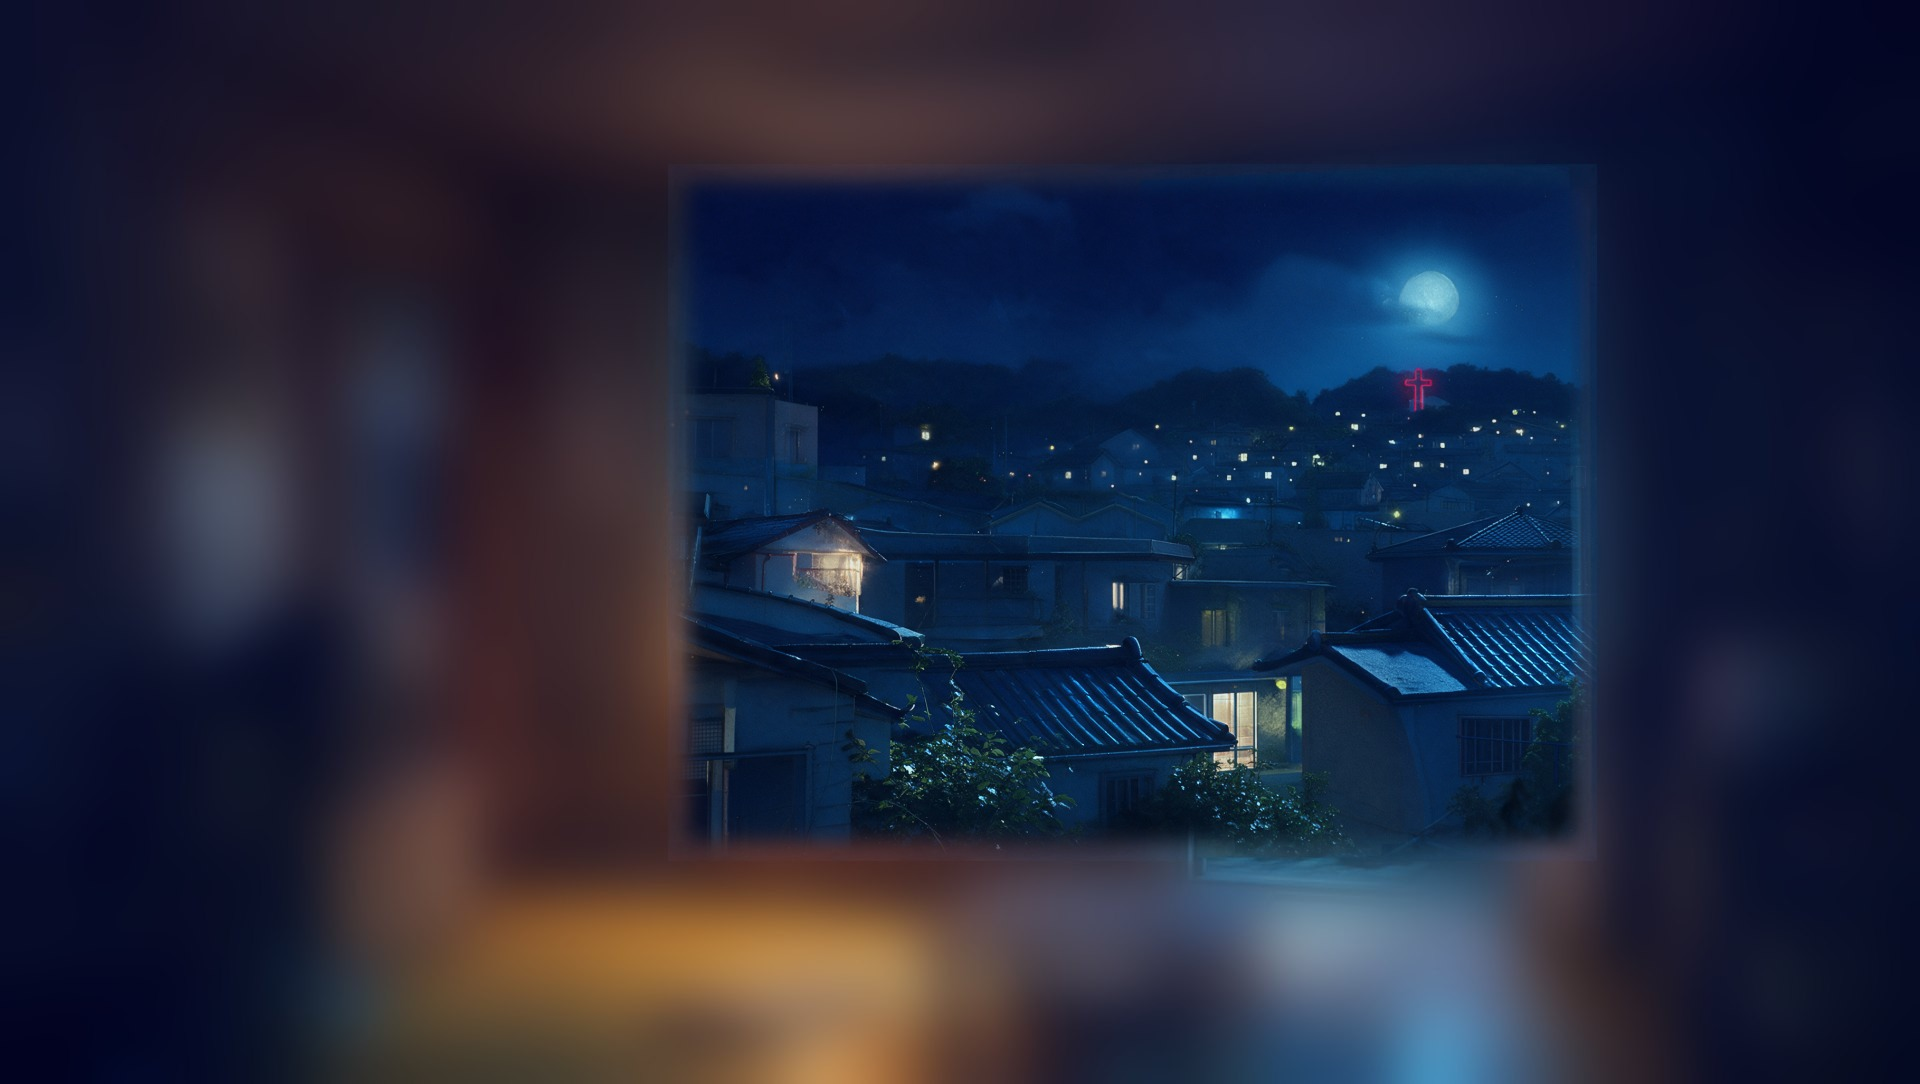
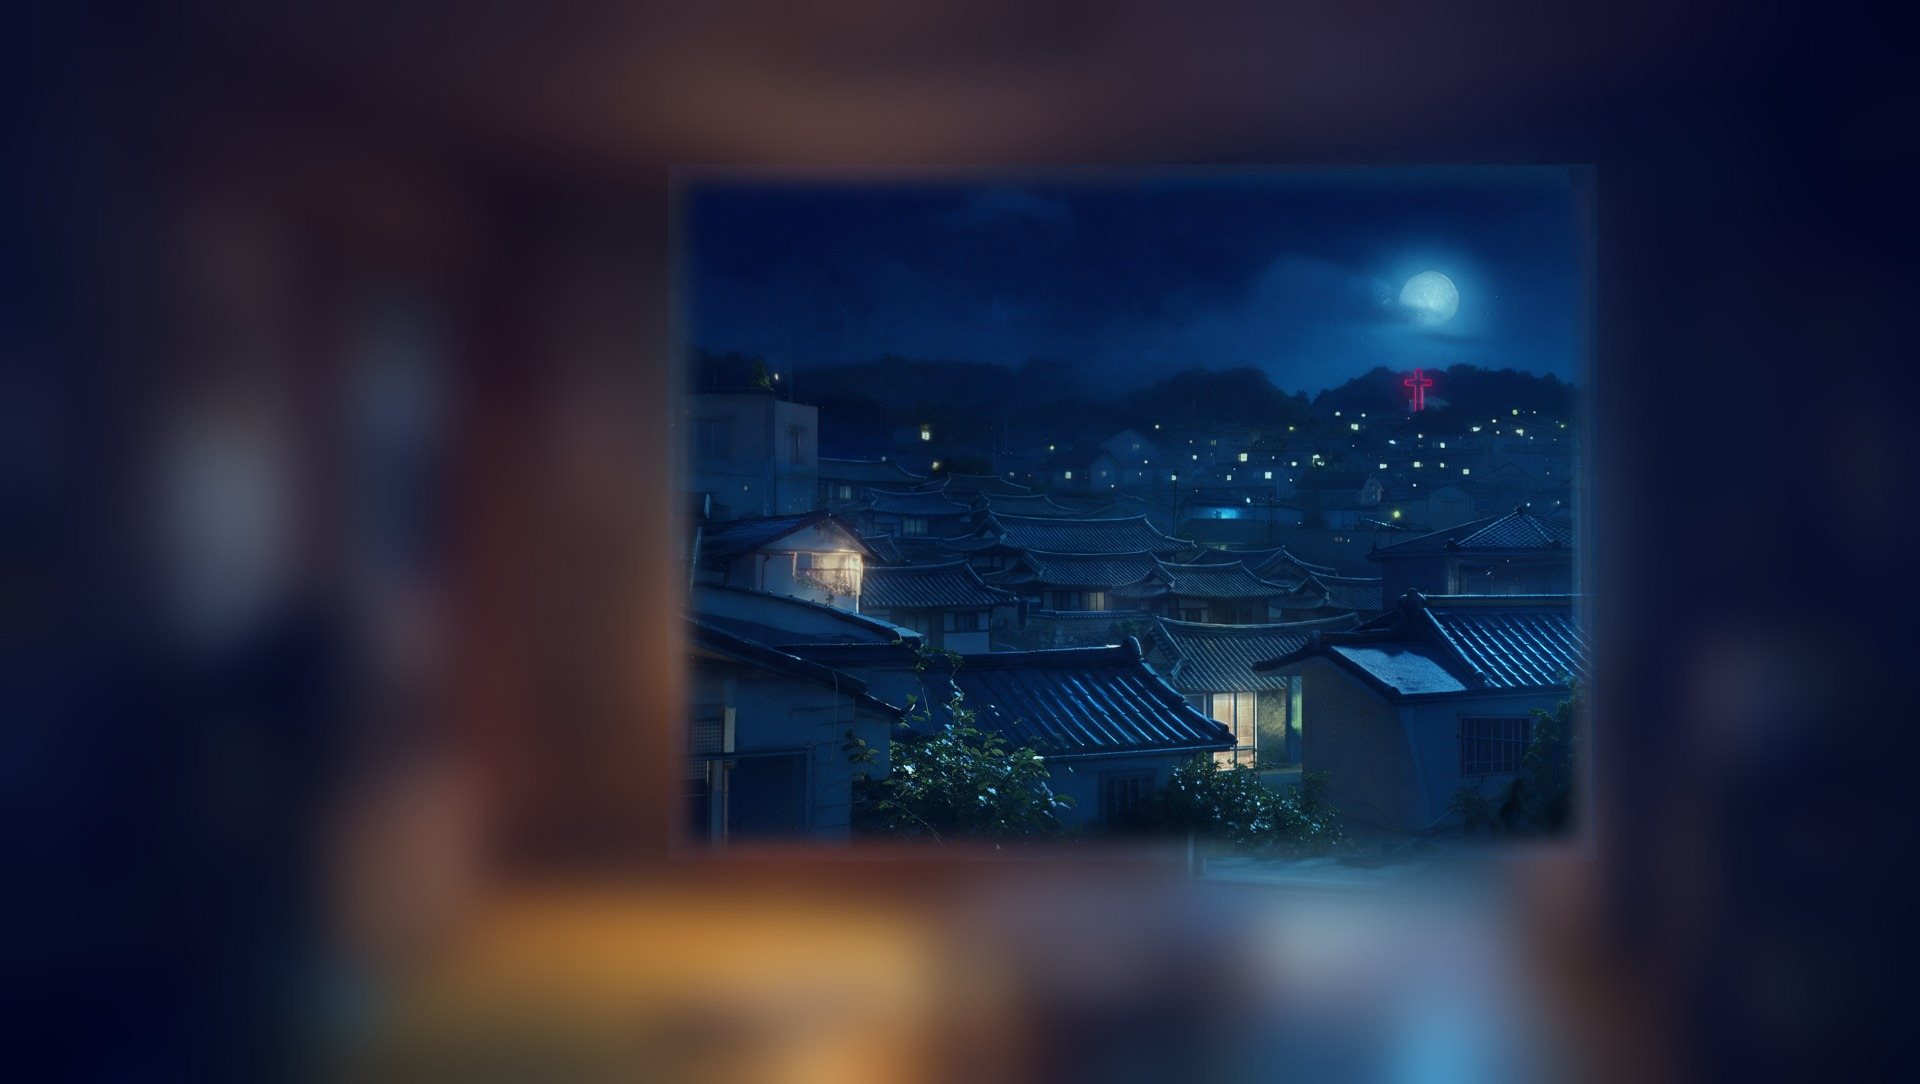
Korea: replace railing-born flat buildings with tiled roofs in outside view (Nano Banana)
Claude-Session: https://claude.ai/code/session_01WmePPEVtycNtDwciTC66yT

diff --git a/public/index.html b/public/index.html
@@ -449,7 +449,7 @@ function framesFor(key){if(!LABFR||!LABFR[key])return null;if(FRM[key])return FR
     return Promise.all([...[...Array(j.n).keys()].flatMap(i=>[loadTex(dir+'/on_'+id(i)+'.jpg'),loadTex(dir+'/off_'+id(i)+'.jpg')]),
       ...[...Array(j.n-1).keys()].flatMap(i=>[loadTex(dir+'/fab_'+id(i)+'.png'),loadTex(dir+'/fba_'+id(i)+'.png')])])}).then(a=>{const m=2*F.n,A=a.slice(0,m),B=a.slice(m);
       F.on=A.filter((_,i)=>i%2==0);F.off=A.filter((_,i)=>i%2==1);F.fab=B.filter((_,i)=>i%2==0);F.fba=B.filter((_,i)=>i%2==1);F.ready=true}).catch(()=>{});return F}
-function texFor(key){if(!cache.has(key))cache.set(key,Promise.all(FILES.map(n=>loadTex(((LAB&&LAB[key])||key)+'/'+n+(/^(out_|mask|plate_|maps|cup_|shadow)/.test(n)?'?v=37':'')))).then(a=>Object.fromEntries(FILES.map((n,i)=>[n.split('.')[0],a[i]]))));return cache.get(key)}
+function texFor(key){if(!cache.has(key))cache.set(key,Promise.all(FILES.map(n=>loadTex(((LAB&&LAB[key])||key)+'/'+n+(/^(out_|mask|plate_|maps|cup_|shadow)/.test(n)?'?v=38':'')))).then(a=>Object.fromEntries(FILES.map((n,i)=>[n.split('.')[0],a[i]]))));return cache.get(key)}
 function evict(keep){for(const [k,p] of cache)if(!keep.includes(k)){cache.delete(k);p.then(T=>Object.values(T).forEach(t=>t.dispose()))}}
 const tvCan=document.createElement('canvas');tvCan.width=128;tvCan.height=96;const tvCtx=tvCan.getContext('2d');
 const tTV=new THREE.CanvasTexture(tvCan);tTV.minFilter=THREE.LinearFilter;tTV.generateMipmaps=false;

diff --git a/public/lab.html b/public/lab.html
@@ -450,7 +450,7 @@ function framesFor(key){if(!LABFR||!LABFR[key])return null;if(FRM[key])return FR
     return Promise.all([...[...Array(j.n).keys()].flatMap(i=>[loadTex(dir+'/on_'+id(i)+'.jpg'),loadTex(dir+'/off_'+id(i)+'.jpg')]),
       ...[...Array(j.n-1).keys()].flatMap(i=>[loadTex(dir+'/fab_'+id(i)+'.png'),loadTex(dir+'/fba_'+id(i)+'.png')])])}).then(a=>{const m=2*F.n,A=a.slice(0,m),B=a.slice(m);
       F.on=A.filter((_,i)=>i%2==0);F.off=A.filter((_,i)=>i%2==1);F.fab=B.filter((_,i)=>i%2==0);F.fba=B.filter((_,i)=>i%2==1);F.ready=true}).catch(()=>{});return F}
-function texFor(key){if(!cache.has(key))cache.set(key,Promise.all(FILES.map(n=>loadTex(((LAB&&LAB[key])||key)+'/'+n+(/^(out_|mask|plate_|maps|cup_|shadow)/.test(n)?'?v=37':'')))).then(a=>Object.fromEntries(FILES.map((n,i)=>[n.split('.')[0],a[i]]))));return cache.get(key)}
+function texFor(key){if(!cache.has(key))cache.set(key,Promise.all(FILES.map(n=>loadTex(((LAB&&LAB[key])||key)+'/'+n+(/^(out_|mask|plate_|maps|cup_|shadow)/.test(n)?'?v=38':'')))).then(a=>Object.fromEntries(FILES.map((n,i)=>[n.split('.')[0],a[i]]))));return cache.get(key)}
 function evict(keep){for(const [k,p] of cache)if(!keep.includes(k)){cache.delete(k);p.then(T=>Object.values(T).forEach(t=>t.dispose()))}}
 const tvCan=document.createElement('canvas');tvCan.width=128;tvCan.height=96;const tvCtx=tvCan.getContext('2d');
 const tTV=new THREE.CanvasTexture(tvCan);tTV.minFilter=THREE.LinearFilter;tTV.generateMipmaps=false;
